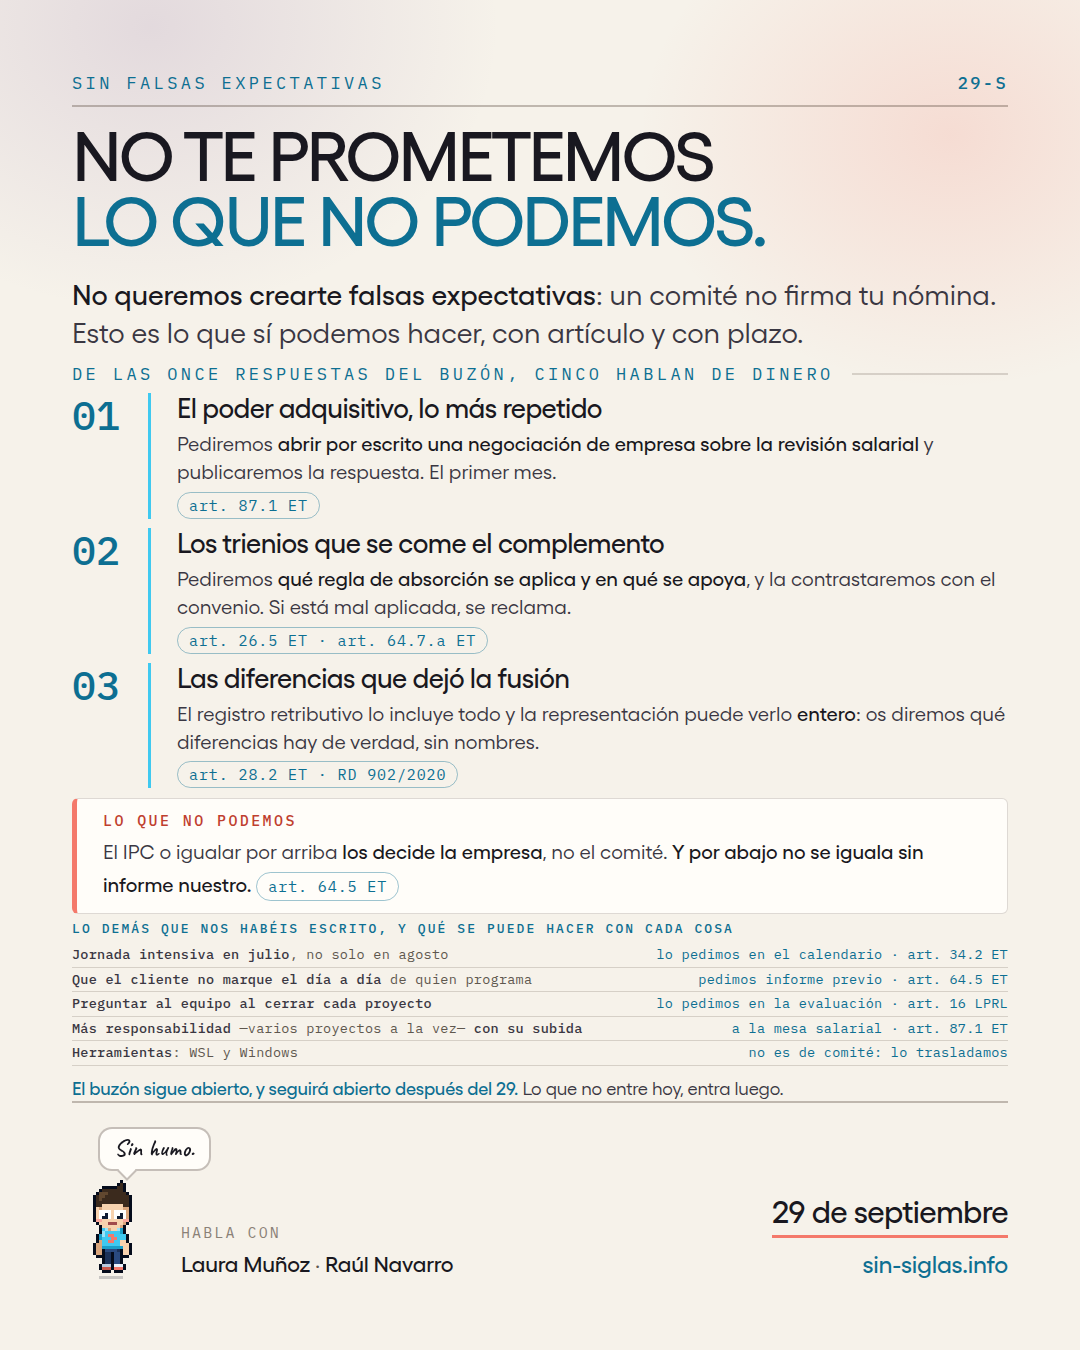
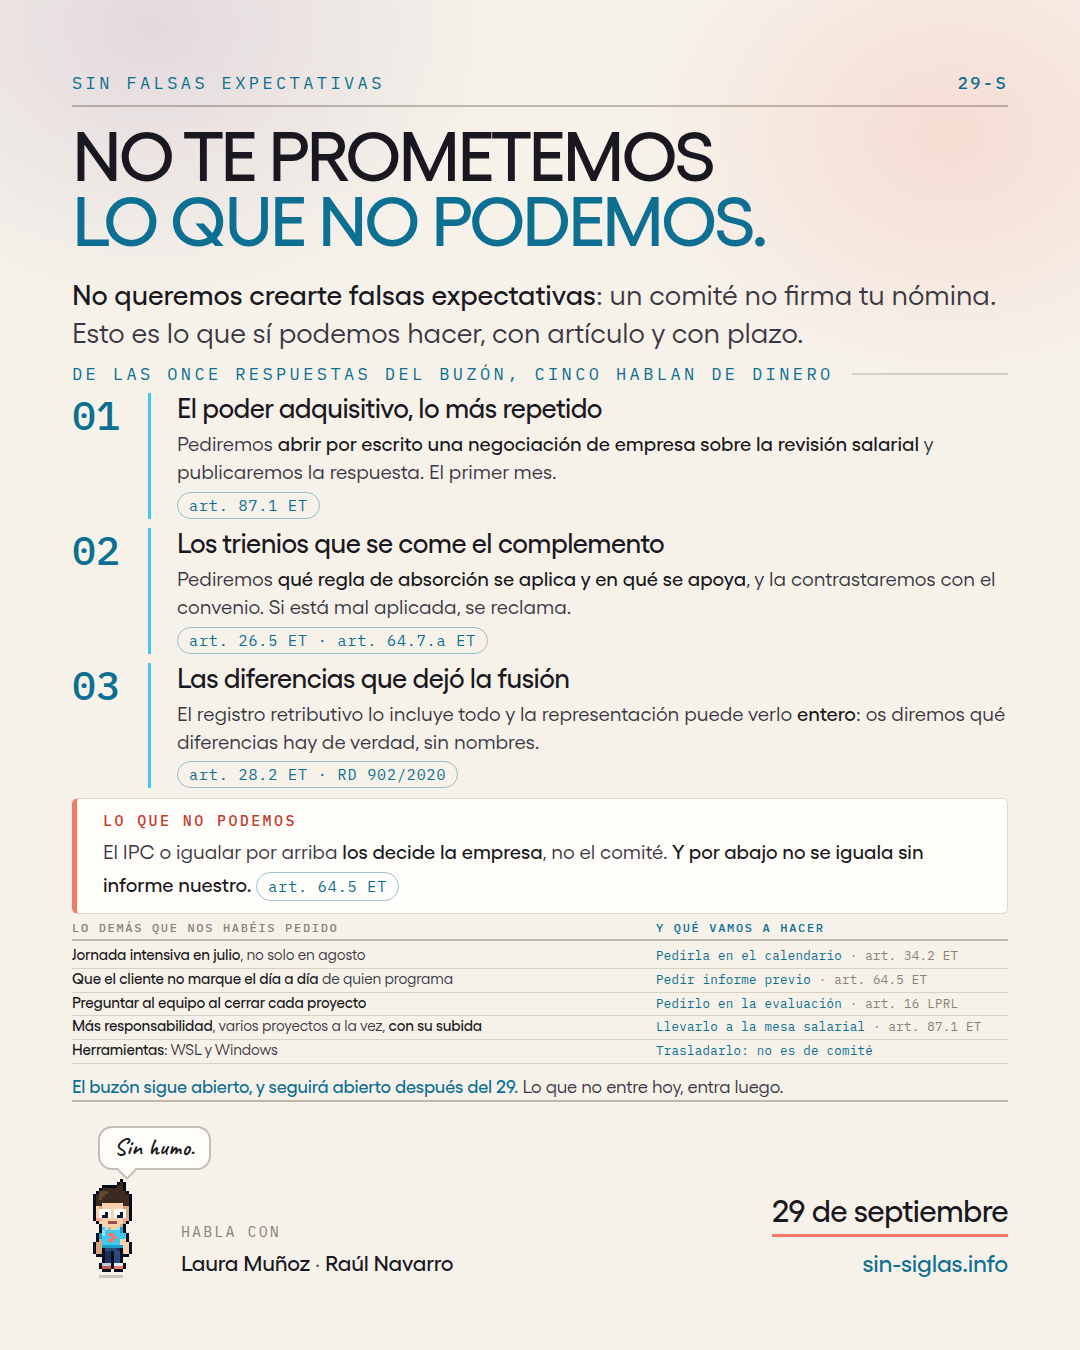
La tira, en dos columnas con cabecera; y conciliación abre el tono
La tira de `propuestas` seguía siendo confusa, y con razón: las dos
columnas iban en la misma tipografía y al mismo cuerpo, la respuesta
pegada al margen derecho con un hueco variable en medio, y ninguna
cabecera. Eso es una tabla sin encabezados: hay que adivinar qué es cada
lado y el ojo tiene que saltar el hueco para emparejar cada fila.

Ahora hay dos cabeceras -- "lo demás que nos habéis pedido" y "y qué
vamos a hacer" -- y las dos columnas arrancan en la misma izquierda, con
un ancho fijo. La izquierda pasa a la tipografía de texto y la derecha
se queda en mono cian, así que el cambio de tipo ya dice de quién es
cada mitad: vuestras palabras a un lado, nuestro compromiso al otro. El
artículo va un tono por detrás para que se lea primero la acción.

Las respuestas pasan a infinitivo -- "pedirla en el calendario",
"llevarlo a la mesa salarial" -- porque debajo de "qué vamos a hacer" un
verbo en infinitivo se lee como un compromiso y "lo pedimos en el
calendario" se leía como una nota al pie.

Y como `conciliacion` es la que se manda primero, se le pasan las dos
líneas que hasta ahora solo estaban en `propuestas`: el panel del final
pasa a titularse "no prometemos lo que no se puede" y debajo va una
línea con que el buzón sigue abierto, y seguirá abierto después del 29.
La primera pieza de tema ya trae el tono de la campaña en vez de
esperar al día 10.

Para que esa línea entrara sin recortar nada, en conciliacion ceden el
[…]

diff --git a/carteles/carteles.html b/carteles/carteles.html
@@ -369,11 +369,13 @@ body.solo .cartel.elegido{display:flex}
    dentro y el margen de serie no cabe */
 /* 02 · con la cuarta acción dentro, el cartel va al ras: el rótulo, los
    huecos y los sellos de artículo ceden lo justo para que quepa */
-#c2 .rotulo{margin:18px 0 14px}
-#c2 .acciones{gap:12px}
+#c2 .rotulo{margin:14px 0 10px}
+#c2 .acciones{gap:9px}
 #c2 .accion h3{margin-bottom:6px}
-#c2 .ley{margin-top:5px}
-#c2 .limite{margin-top:18px;padding:16px 26px}
+#c2 .ley{margin-top:4px}
+#c2 .limite{margin-top:14px;padding:13px 26px}
+#c2 .ultimo{margin-top:8px}
+#c2 .accion p{line-height:1.34}
 
 #c12 .tapa{padding-bottom:11px;margin-bottom:16px}
 #c12 .rotulo{margin:10px 0 8px}
@@ -382,25 +384,35 @@ body.solo .cartel.elegido{display:flex}
 #c12 .ley{margin-top:5px}
 #c12 .limite{margin-top:10px;padding:12px 26px}
 #c12 .resto{margin-top:6px}
-#c12 .resto ul{gap:3px}
-#c12 .resto li{gap:16px;padding-bottom:3px}
+#c12 .resto ul{gap:1px}
+#c12 .resto li{padding-bottom:3px}
 
 /* 12 · el resto de lo que ha llegado al buzón, una línea por tema con lo
    que se puede hacer con él. Va en tipografía pequeña a propósito: no es
    la propuesta, es la prueba de que no hemos tirado nada */
+/* dos columnas de verdad, con cabecera y las dos alineadas a la misma
+   izquierda: lo que pedisteis en tipografía de texto, lo que haremos en
+   mono y en cian. Sin la cabecera se leía como una tabla sin encabezados
+   y había que adivinar qué era cada lado */
 .resto{margin:16px 0 0}
-.resto__t{
-  font-family:var(--mono);font-weight:500;font-size:13px;letter-spacing:.16em;
-  text-transform:uppercase;color:var(--acento);margin:0 0 9px
+.resto__cab,.resto li{display:grid;grid-template-columns:1fr 352px;gap:24px;align-items:baseline}
+.resto__cab{
+  font-family:var(--mono);font-weight:500;font-size:12px;letter-spacing:.14em;
+  text-transform:uppercase;color:var(--apagado-2);margin:0 0 5px;
+  border-bottom:2px solid var(--linea-fuerte);padding-bottom:4px
 }
-.resto ul{list-style:none;margin:0;padding:0;display:grid;gap:5px}
+.resto__cab span:last-child{color:var(--cian)}
+.resto ul{list-style:none;margin:0;padding:0;display:grid;gap:3px}
 .resto li{
-  display:grid;grid-template-columns:1fr auto;gap:20px;align-items:baseline;
-  font-family:var(--mono);font-size:13.5px;line-height:1.3;letter-spacing:.02em;
-  color:var(--apagado);border-bottom:1px solid var(--linea);padding-bottom:5px
+  font-size:15px;line-height:1.25;letter-spacing:-.01em;color:var(--texto-2);
+  border-bottom:1px solid var(--linea);padding-bottom:4px
 }
-.resto b{color:var(--texto-2);font-weight:500}
-.resto i{font-style:normal;color:var(--cian);text-align:right}
+.resto li b{color:var(--texto);font-weight:500}
+.resto i{
+  font-style:normal;font-family:var(--mono);font-size:12.5px;line-height:1.3;
+  letter-spacing:.02em;color:var(--cian)
+}
+.resto i em{font-style:normal;color:var(--apagado-2)}
 .resto__abierto{
   margin:11px 0 0;font-size:18px;line-height:1.35;letter-spacing:-.01em;color:var(--texto-2)
 }
@@ -653,10 +665,12 @@ body.solo .cartel.elegido{display:flex}
   </ul>
 
   <div class="limite">
-    <h4>Lo que no podemos</h4>
+    <h4>No prometemos lo que no se puede</h4>
     <p>Un comité no aprueba tu reducción de jornada ni te cambia el horario. Lo que sí puede es
       que <b>exista una norma igual para todos y que te contesten por escrito</b>.</p>
   </div>
+  <p class="ultimo"><b>El buzón sigue abierto</b>, y seguirá abierto después del 29
+    &middot; sin-siglas.info/buzon</p>
 
   <footer class="pie">
     <div class="compi"><p class="compi__globo">Yo a las 19:00 ya no leo.</p><canvas data-pose="cansado" data-tt="1500"></canvas></div>
@@ -733,13 +747,13 @@ body.solo .cartel.elegido{display:flex}
   </div>
 
   <div class="resto">
-    <p class="resto__t">Lo demás que nos habéis escrito, y qué se puede hacer con cada cosa</p>
+    <p class="resto__cab"><span>Lo demás que nos habéis pedido</span><span>Y qué vamos a hacer</span></p>
     <ul>
-      <li><span><b>Jornada intensiva en julio</b>, no solo en agosto</span><i>lo pedimos en el calendario &middot; art. 34.2 ET</i></li>
-      <li><span><b>Que el cliente no marque el día a día</b> de quien programa</span><i>pedimos informe previo &middot; art. 64.5 ET</i></li>
-      <li><span><b>Preguntar al equipo al cerrar cada proyecto</b></span><i>lo pedimos en la evaluación &middot; art. 16 LPRL</i></li>
-      <li><span><b>Más responsabilidad</b> —varios proyectos a la vez— <b>con su subida</b></span><i>a la mesa salarial &middot; art. 87.1 ET</i></li>
-      <li><span><b>Herramientas</b>: WSL y Windows</span><i>no es de comité: lo trasladamos</i></li>
+      <li><span><b>Jornada intensiva en julio</b>, no solo en agosto</span><i>Pedirla en el calendario <em>&middot; art. 34.2 ET</em></i></li>
+      <li><span><b>Que el cliente no marque el día a día</b> de quien programa</span><i>Pedir informe previo <em>&middot; art. 64.5 ET</em></i></li>
+      <li><span><b>Preguntar al equipo al cerrar cada proyecto</b></span><i>Pedirlo en la evaluación <em>&middot; art. 16 LPRL</em></i></li>
+      <li><span><b>Más responsabilidad</b>, varios proyectos a la vez, <b>con su subida</b></span><i>Llevarlo a la mesa salarial <em>&middot; art. 87.1 ET</em></i></li>
+      <li><span><b>Herramientas</b>: WSL y Windows</span><i>Trasladarlo: no es de comité</i></li>
     </ul>
     <p class="resto__abierto"><b>El buzón sigue abierto, y seguirá abierto después del 29.</b>
       Lo que no entre hoy, entra luego.</p>

diff --git a/carteles/ESTRATEGIA.md b/carteles/ESTRATEGIA.md
@@ -167,7 +167,7 @@ final—, pero **no a tamaño de miniatura en el móvil**, y menos ahora que van
 |---|---|---|---|
 | vie 4 sep | **Primero tú** · el buzón + QR | Apertura: pedimos antes de prometer | Rocío Galindo |
 | lun 7 sep | **A que no nos conoces** · el reto | Enganche: jugar, y de paso escribir al buzón | Mario Aranda |
-| mar 8 sep | **La conciliación no es un favor** | Tema | Leticia Algarra |
+| mar 8 sep | **La conciliación no es un favor** | Tema · abre diciendo que no prometemos lo imposible | Leticia Algarra |
 | jue 10 sep | **No te prometemos lo que no podemos** | Lo que pide el buzón, con artículo y límite | Laura Muñoz |
 | vie 11 sep | **Se puede medir** · ambiente y salud | Tema | Raúl Navarro |
 | mar 15 sep | **Que te lo cuenten antes** · comunicación | Tema | José Pablo Fernández |
@@ -181,6 +181,11 @@ final—, pero **no a tamaño de miniatura en el móvil**, y menos ahora que van
 
 Once piezas, y la última el **viernes 25**. El buzón se cierra y se publica el 22, no el 18, para
 dar más margen a que llegue gente.
+
+`conciliacion`, que va primero, lleva las dos líneas que antes solo estaban en `propuestas`: el
+panel del final se titula **«no prometemos lo que no se puede»** y debajo va una línea con que el
+buzón sigue abierto y seguirá abierto después del 29. Así la primera pieza de tema ya trae el tono
+de toda la campaña, y no hay que esperar al día 10 para que alguien lo lea.
 
 **El reto es la excepción al ritmo de martes y viernes**, y va suelto un lunes a propósito: el
 juego y el ranking ya están publicados, y cuanto antes se mande, más margen tiene el tablero para
@@ -263,6 +268,11 @@ respuestas.
 
 Ojo con las etiquetas: *ya está pedido* es del cartel del día 22 y significa pedido **a la
 empresa**. Todavía no hay comité, así que aquí no se usa: se dice en qué cartel está la acción.
+
+La tira son dos columnas con cabecera —*lo demás que nos habéis pedido* / *y qué vamos a hacer*—,
+la izquierda en tipografía de texto y la derecha en mono cian, las dos alineadas a la misma
+izquierda. La primera versión iba todo en mono, con la respuesta pegada al margen derecho y sin
+cabeceras: se leía como una tabla sin encabezados y había que adivinar qué era cada lado.
 
 Y la tira cierra con **«el buzón sigue abierto, y seguirá abierto después del 29»**, en tipografía
 de cuerpo y no en mono pequeño. Sin esa línea, cinco temas resueltos en letra chica con la
